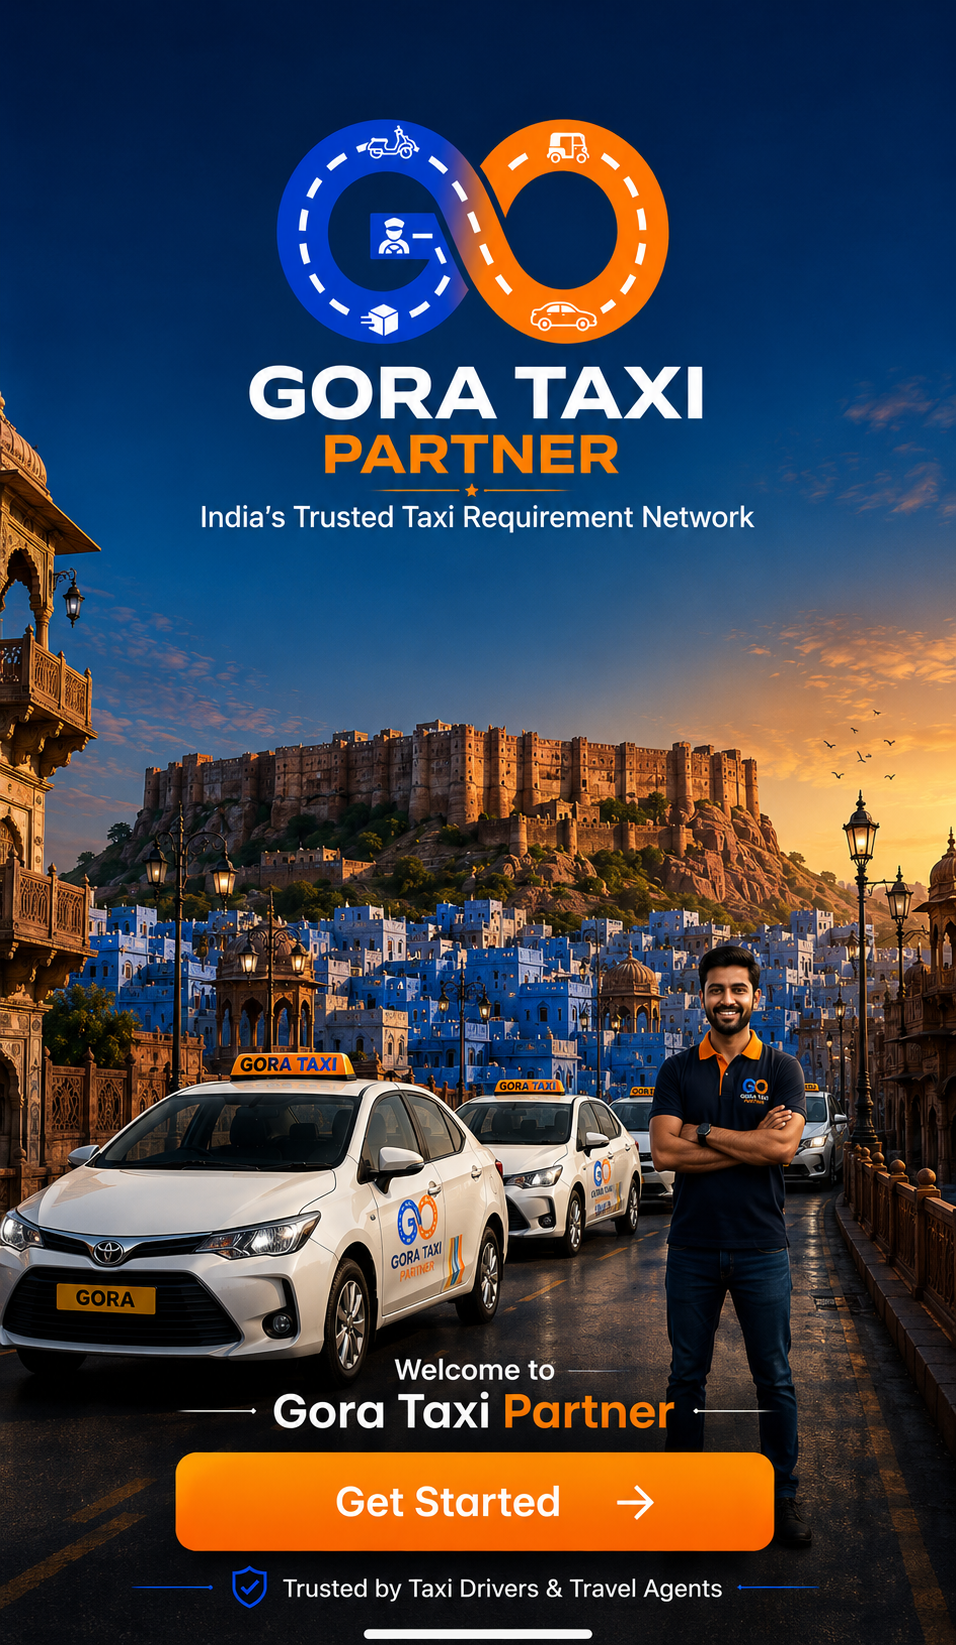
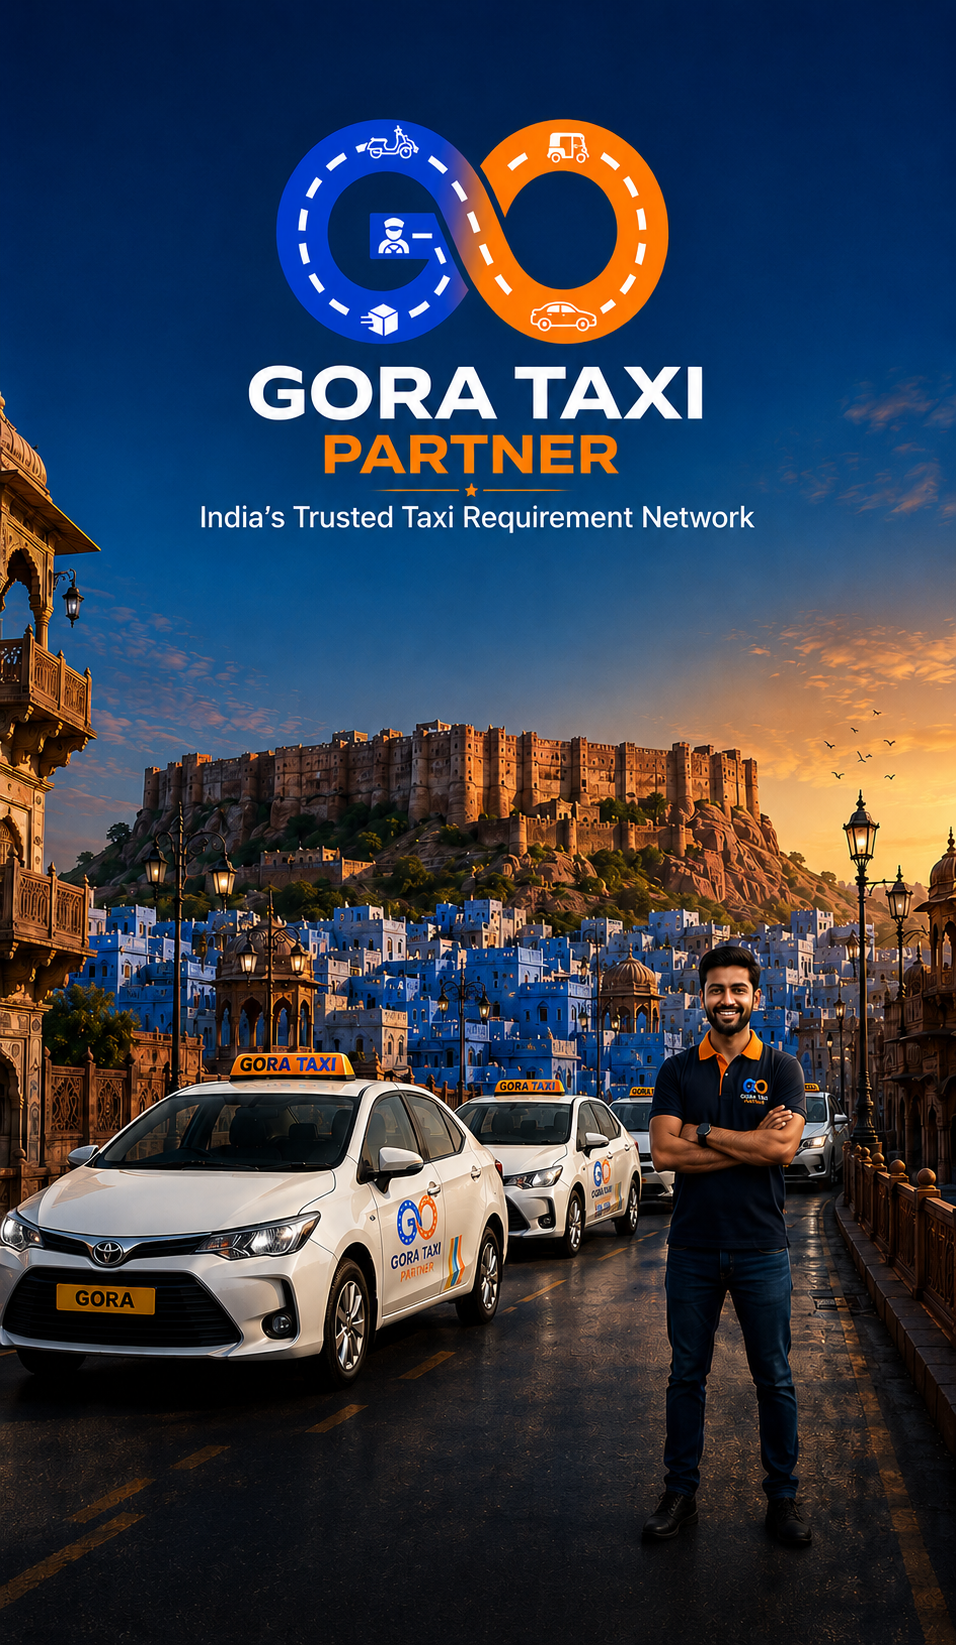
feat(welcome): enhance welcome page layout and add new background image

diff --git a/mobile/lib/features/auth/presentation/pages/welcome_page.dart b/mobile/lib/features/auth/presentation/pages/welcome_page.dart
@@ -1,4 +1,5 @@
 import 'package:flutter/material.dart';
+import 'package:flutter_screenutil/flutter_screenutil.dart';
 import 'package:go_router/go_router.dart';
 
 class WelcomePage extends StatelessWidget {
@@ -6,26 +7,177 @@ class WelcomePage extends StatelessWidget {
 
   @override
   Widget build(BuildContext context) {
-    // The welcome artwork (with its baked-in "Get Started" button) is shown fully
-    // on every device using BoxFit.contain — no cropping on tablets/foldables.
-    // The whole screen is tappable, so the "Get Started" button always works.
+    // The artwork is background only — the welcome text, the Get Started button
+    // and the trust line below are real widgets, so ONLY the button is tappable.
     return Scaffold(
-      // Background matches the artwork's dark tone so any letterbox blends in.
+      // Matches the artwork's dark tone so any letterbox blends in.
       backgroundColor: const Color(0xFF0B1B3A),
-      body: GestureDetector(
-        behavior: HitTestBehavior.opaque,
-        onTap: () => context.go('/auth/login'),
-        // cover = full-bleed (no side/top bars); bottomCenter keeps the lower part
-        // (Welcome text + "Get Started" button) always visible, cropping only the
-        // top on very tall/short screens.
-        child: const SizedBox.expand(
-          child: Image(
+      body: Stack(
+        fit: StackFit.expand,
+        children: [
+          const Image(
             image: AssetImage('assets/images/welcome.png'),
             fit: BoxFit.cover,
-            alignment: Alignment.bottomCenter,
+            alignment: Alignment.topCenter,
           ),
-        ),
+
+          // Dark scrim behind the copy — the road underneath is light in places,
+          // and white text on it would be unreadable.
+          const DecoratedBox(
+            decoration: BoxDecoration(
+              gradient: LinearGradient(
+                begin: Alignment.center,
+                end: Alignment.bottomCenter,
+                colors: [Colors.transparent, Color(0xCC000B1F)],
+              ),
+            ),
+          ),
+
+          SafeArea(
+            child: Align(
+              alignment: Alignment.bottomCenter,
+              child: Padding(
+                padding: EdgeInsets.fromLTRB(24.w, 0, 24.w, 24.h),
+                child: Column(
+                  mainAxisSize: MainAxisSize.min,
+                  children: [
+                    // "Welcome to ———"
+                    Row(
+                      mainAxisAlignment: MainAxisAlignment.center,
+                      children: [
+                        Text(
+                          'Welcome to',
+                          style: TextStyle(
+                            fontFamily: 'Poppins',
+                            fontSize: 12.sp,
+                            fontWeight: FontWeight.w600,
+                            color: Colors.white,
+                          ),
+                        ),
+                        SizedBox(width: 10.w),
+                        _rule(width: 16.w, color: Colors.white70),
+                      ],
+                    ),
+                    SizedBox(height: 4.h),
+
+                    // "——▶  Gora Taxi Partner  ◀——" : arrows point in at the title.
+                    Row(
+                      mainAxisAlignment: MainAxisAlignment.center,
+                      children: [
+                        _arrowRule(pointsRight: true),
+                        SizedBox(width: 10.w),
+                        // "Gora Taxi" white + "Partner" orange, as in the artwork.
+                        Flexible(
+                          child: Text.rich(
+                            TextSpan(
+                              children: [
+                                const TextSpan(text: 'Gora Taxi '),
+                                TextSpan(
+                                  text: 'Partner',
+                                  style: TextStyle(color: Colors.orange.shade600),
+                                ),
+                              ],
+                              style: TextStyle(
+                                fontFamily: 'Poppins',
+                                fontSize: 20.sp,
+                                fontWeight: FontWeight.bold,
+                                color: Colors.white,
+                              ),
+                            ),
+                            maxLines: 1,
+                            overflow: TextOverflow.ellipsis,
+                          ),
+                        ),
+                        SizedBox(width: 10.w),
+                        _arrowRule(pointsRight: false),
+                      ],
+                    ),
+                    SizedBox(height: 20.h),
+
+                    // The ONLY tappable thing on this screen.
+                    SizedBox(
+                      width: double.infinity,
+                      child: ElevatedButton(
+                        onPressed: () => context.go('/auth/login'),
+                        style: ElevatedButton.styleFrom(
+                          backgroundColor: Colors.orange.shade700,
+                          foregroundColor: Colors.white,
+                          padding: EdgeInsets.symmetric(vertical: 16.h),
+                          shape: RoundedRectangleBorder(
+                            borderRadius: BorderRadius.circular(14.r),
+                          ),
+                          elevation: 6,
+                        ),
+                        child: Row(
+                          mainAxisAlignment: MainAxisAlignment.center,
+                          children: [
+                            Text(
+                              'Get Started',
+                              style: TextStyle(
+                                fontFamily: 'Poppins',
+                                fontSize: 18.sp,
+                                fontWeight: FontWeight.bold,
+                              ),
+                            ),
+                            SizedBox(width: 10.w),
+                            Icon(Icons.arrow_forward, size: 20.sp),
+                          ],
+                        ),
+                      ),
+                    ),
+                    SizedBox(height: 16.h),
+
+                    // "——  🛡 Trusted by Taxi Drivers & Travel Agents  ——"
+                    Row(
+                      mainAxisAlignment: MainAxisAlignment.center,
+                      children: [
+                        _rule(width: 20.w, color: const Color(0xFF1E5BC6)),
+                        SizedBox(width: 8.w),
+                        Icon(Icons.verified_user, size: 15.sp, color: Colors.lightBlueAccent),
+                        SizedBox(width: 6.w),
+                        Flexible(
+                          child: Text(
+                            'Trusted by Taxi Drivers & Travel Agents',
+                            maxLines: 1,
+                            overflow: TextOverflow.ellipsis,
+                            style: TextStyle(
+                              fontFamily: 'Poppins',
+                              fontSize: 10.sp,
+                              color: Colors.white70,
+                            ),
+                          ),
+                        ),
+                        SizedBox(width: 8.w),
+                        _rule(width: 20.w, color: const Color(0xFF1E5BC6)),
+                      ],
+                    ),
+                  ],
+                ),
+              ),
+            ),
+          ),
+        ],
       ),
+    );
+  }
+
+  /// Plain decorative line.
+  Widget _rule({required double width, required Color color}) {
+    return Container(width: width, height: 1.5.h, color: color);
+  }
+
+  /// Decorative line ending in an arrowhead that points at the title.
+  Widget _arrowRule({required bool pointsRight}) {
+    final head = Icon(
+      pointsRight ? Icons.arrow_right_alt : Icons.keyboard_backspace,
+      size: 16.sp,
+      color: Colors.white70,
+    );
+    return Row(
+      mainAxisSize: MainAxisSize.min,
+      children: pointsRight
+          ? [_rule(width: 20.w, color: Colors.white70), head]
+          : [head, _rule(width: 20.w, color: Colors.white70)],
     );
   }
 }
